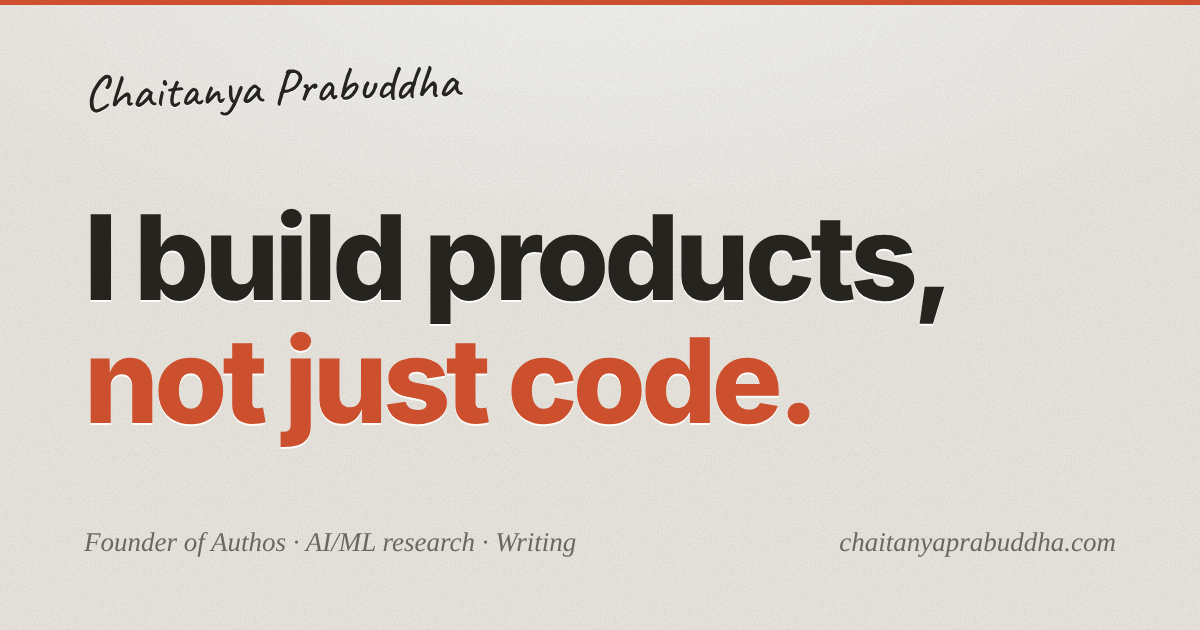
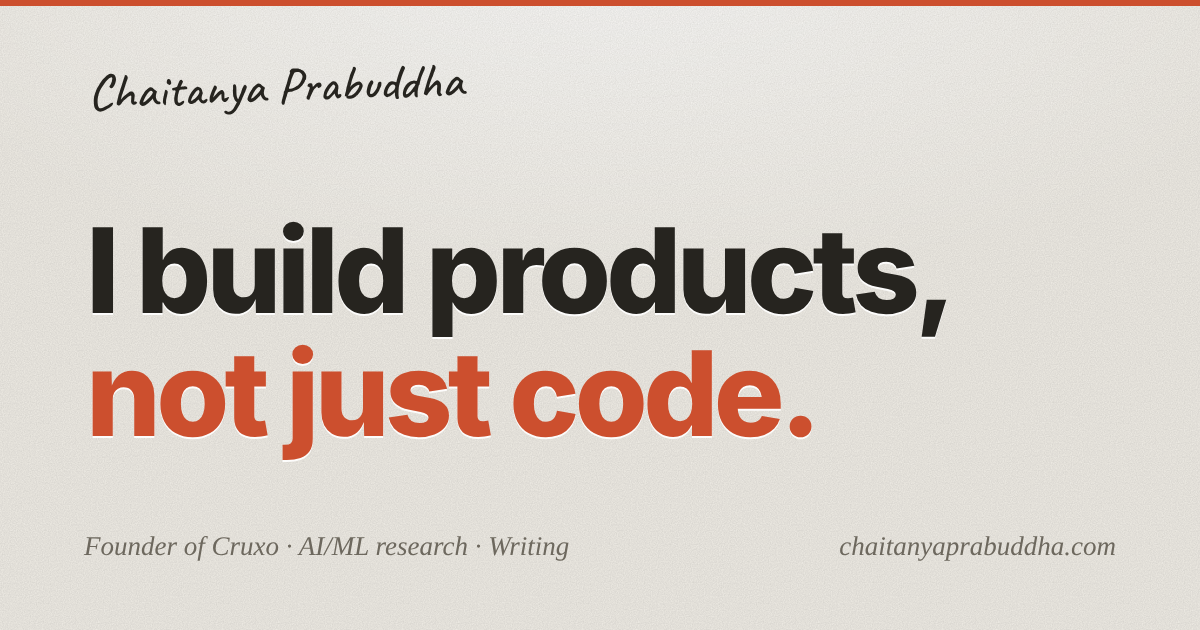
Replace Authos with Cruxo and shorten the StemLM copy
Authos is discontinued, so remove its card, contact address, metadata and
README entries. Add Cruxo as the founder venture, point the About row at
it, and regenerate the social card. Trim the StemLM description.

Claude-Session: https://claude.ai/code/session_01XMfyQeZC1Wu6JgPEff5Qqz

diff --git a/components/Ventures.tsx b/components/Ventures.tsx
@@ -1,27 +1,34 @@
 import Section from "@/components/Section";
 
-const ventures = [
+type Venture = {
+  id: string;
+  name: string;
+  role: string;
+  lede?: string;
+  text?: string;
+  audience: string;
+  href: string;
+  cta: string;
+};
+
+const ventures: Venture[] = [
   {
-    id: "authos",
-    name: "Authos",
+    id: "cruxo",
+    name: "Cruxo",
     role: "Founder",
-    lede: "Remote tools for coding agents like Claude Code and Codex.",
-    text: "Coding agents need reliable tools outside the prompt. Authos runs browser sessions, Office and PDF conversion, large-file inspection, webhooks, sandboxes, temporary databases, logs, and artifact storage in controlled infrastructure, then returns structured JSON and signed artifact links through one API and MCP layer. The agent spends fewer tokens, needs less setup, and makes fewer mistakes.",
-    audience: "For agent builders, developers, and engineering teams",
-    href: "https://authors.app",
-    cta: "Visit site",
-    mail: { href: "mailto:authos@chaitanyaprabuddha.com", label: "Ask about Authos" }
+    audience: "trycruxo.com",
+    href: "https://trycruxo.com",
+    cta: "Visit site"
   },
   {
     id: "stemlm",
     name: "StemLM",
     role: "Co-founder",
     lede: "Step-by-step STEM solutions on top of the AI you already use.",
-    text: "ChatGPT, Claude, and Gemini give students an answer. StemLM works alongside them and lays that answer out the way the subject is taught: the method, the formulas, the diagrams, and the steps the AI skipped, all aligned to the curriculum.",
+    text: "AI gives students the answer. StemLM shows the working: the method, formulas, diagrams, and the steps it skipped.",
     audience: "For undergrad STEM students",
     href: "https://www.stemlm.app/",
-    cta: "Try StemLM",
-    mail: null
+    cta: "Try StemLM"
   }
 ];
 
@@ -36,19 +43,18 @@ export default function Ventures() {
               <span className="role">{venture.role}</span>
             </div>
 
-            <p className="card-lede">{venture.lede}</p>
-            <p className="card-text">{venture.text}</p>
+            {venture.lede ? (
+              <p className="card-lede">{venture.lede}</p>
+            ) : null}
+            {venture.text ? (
+              <p className="card-text">{venture.text}</p>
+            ) : null}
           </div>
 
           <div className="card-foot">
             <p className="label">{venture.audience}</p>
 
             <div className="card-actions">
-              {venture.mail ? (
-                <a href={venture.mail.href} className="btn">
-                  {venture.mail.label}
-                </a>
-              ) : null}
               <a
                 href={venture.href}
                 target="_blank"

diff --git a/app/layout.tsx b/app/layout.tsx
@@ -6,7 +6,7 @@ import "./globals.css";
 const SITE_URL = "https://www.chaitanyaprabuddha.com";
 const SITE_TITLE = "Chaitanya Prabuddha | AI/ML Researcher, Builder, Founder";
 const SITE_DESCRIPTION =
-  "Chaitanya Prabuddha is a CS student at BITS Pilani who builds products, researches AI/ML, and writes about both. Founder of Authos, remote tools for coding agents.";
+  "Chaitanya Prabuddha is a CS student at BITS Pilani who builds products, researches AI/ML, and writes about both. Founder of Cruxo.";
 
 const OG_IMAGE = {
   url: "/og.png",
@@ -51,8 +51,7 @@ export const metadata: Metadata = {
     "AI agents",
     "coding agents",
     "technical writing",
-    "Authos",
-    "remote tools for coding agents",
+    "Cruxo",
     "machine learning projects"
   ],
   openGraph: {

diff --git a/app/page.tsx b/app/page.tsx
@@ -14,7 +14,7 @@ import PageTitle from "@/components/PageTitle";
 
 const HOME_TITLE = "Chaitanya Prabuddha | AI/ML Researcher, Builder, Founder";
 const HOME_DESCRIPTION =
-  "Chaitanya Prabuddha is a CS student at BITS Pilani who builds products, researches AI/ML, and writes about both. Founder of Authos, remote tools for coding agents.";
+  "Chaitanya Prabuddha is a CS student at BITS Pilani who builds products, researches AI/ML, and writes about both. Founder of Cruxo.";
 
 export const metadata: Metadata = {
   title: { absolute: HOME_TITLE },

diff --git a/components/About.tsx b/components/About.tsx
@@ -23,8 +23,8 @@ export default function About() {
             <dt>Now</dt>
             <dd>
               Building{" "}
-              <a href="#authos" className="link">
-                Authos
+              <a href="#cruxo" className="link">
+                Cruxo
               </a>{" "}
               and researching{" "}
               <a href="#research" className="link">

diff --git a/README.md b/README.md
@@ -1,17 +1,17 @@
 # chaitanyaprabuddha.com
 
-Personal website of Chaitanya Prabuddha: CS student at BITS Pilani, AI/ML researcher, builder, and founder of Authos.
+Personal website of Chaitanya Prabuddha: CS student at BITS Pilani, AI/ML researcher, builder, and founder of Cruxo.
 
 ## Public Site
 
-- **Home** - portfolio landing page with profile, Authos, StemLM, projects, research, achievements, current work, and contact links.
+- **Home** - portfolio landing page with profile, Cruxo, StemLM, projects, research, achievements, current work, and contact links.
 - **Blog** - long-form writing on AI agents, LLM systems, inference, MCP, RAG, autonomous SEO, and developer tooling.
 - **Sitemap** - generated from published markdown posts with canonical `https://www.chaitanyaprabuddha.com` URLs.
 - **Robots** - static `robots.txt` route pointing crawlers to the canonical sitemap.
 
 ## Homepage Sections
 
-- **Authos** - standalone founder section for the remote tool platform for coding agents at `authors.app`. The copy focuses on Claude Code, Codex, agent builders, developers, and engineering teams that need reliable remote execution, artifacts, state, and infrastructure outside the prompt.
+- **Cruxo** - founder section linking to `trycruxo.com`.
 - **StemLM** - standalone co-founder section for the structured STEM problem-solving product at `stemlm.app`. The section now positions StemLM around undergrad students, structured STEM solutions, and exam-ready understanding.
 - **Projects** - focused project list currently featuring LocalYapper and Newsroom. IPL2026-LM and StemLM are no longer listed as ordinary projects.
 - **Research** - AI/ML and systems research work.
@@ -19,8 +19,8 @@ Personal website of Chaitanya Prabuddha: CS student at BITS Pilani, AI/ML resear
 
 ## Featured Work
 
-- **Authos** - controlled remote infrastructure for coding agents: browser sessions, Office/PDF conversion, large-file inspection, webhooks, sandboxes, temporary databases, logs, signed artifacts, and one API/MCP layer.
-- **StemLM** - structured AI study layer that works alongside ChatGPT, Claude, and Gemini to turn answers into curriculum-aligned steps, methods, formulas, diagrams, and missing reasoning.
+- **Cruxo** - founded by Chaitanya, at `trycruxo.com`.
+- **StemLM** - study layer on top of ChatGPT, Claude, and Gemini that shows the working behind an answer: method, formulas, diagrams, and skipped steps.
 - **LocalYapper** - privacy-first on-device voice dictation tool and open source alternative to cloud-first dictation apps.
 - **Newsroom** - editorial AI pipeline built after ContextCon to turn live X trends into Crustdata-style data posts with Grok, Claude, Crustdata APIs, GPT-Image-2, endpoint validation, prompt caching, usage logs, and per-run artifacts.
 
